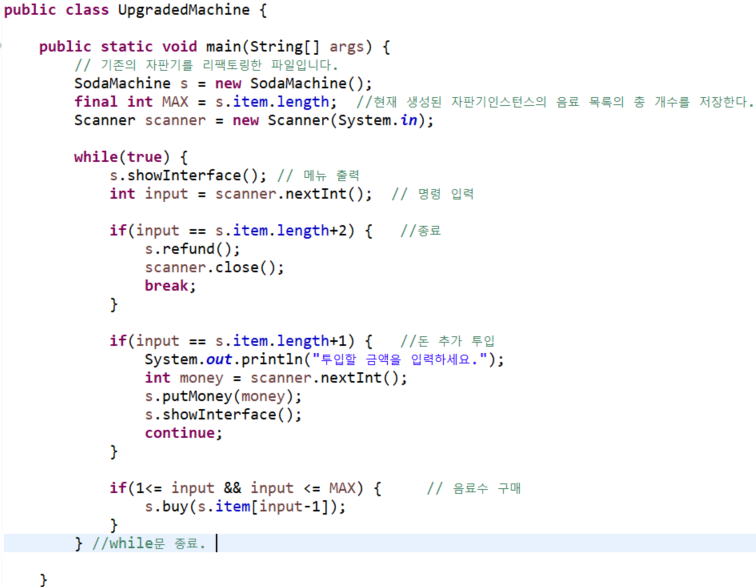
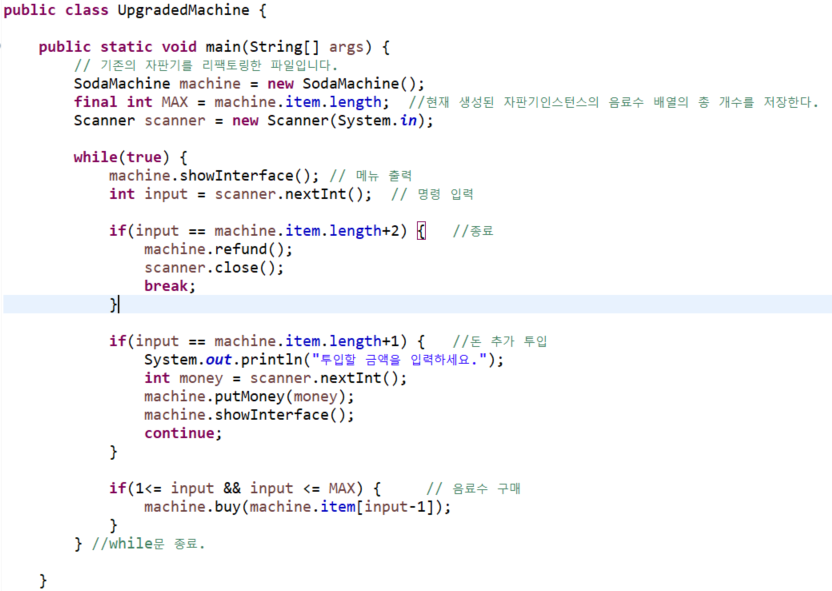
refactoring 2021-10-19

diff --git a/src/VendingMachine/UpgradedMachine.java b/src/VendingMachine/UpgradedMachine.java
@@ -132,30 +132,30 @@ public class UpgradedMachine {
 
 	public static void main(String[] args) {
 		// 기존의 자판기를 리팩토링한 파일입니다.
-		SodaMachine s = new SodaMachine();
-		final int MAX = s.item.length;  //현재 생성된 자판기인스턴스의 음료 목록의 총 개수를 저장한다.
+		SodaMachine machine = new SodaMachine();
+		final int MAX = machine.item.length;  //현재 생성된 자판기인스턴스의 음료수 배열의 총 개수를 저장한다.
 		Scanner scanner = new Scanner(System.in);
 		
 		while(true) {
-			s.showInterface(); // 메뉴 출력
+			machine.showInterface(); // 메뉴 출력
 			int input = scanner.nextInt();  // 명령 입력
 			
-			if(input == s.item.length+2) {   //종료
-				s.refund();
+			if(input == machine.item.length+2) {   //종료
+				machine.refund();
 				scanner.close();
 				break;
 			}
 			
-			if(input == s.item.length+1) {   //돈 추가 투입
+			if(input == machine.item.length+1) {   //돈 추가 투입
 				System.out.println("투입할 금액을 입력하세요.");
 				int money = scanner.nextInt();
-				s.putMoney(money);
-				s.showInterface();
+				machine.putMoney(money);
+				machine.showInterface();
 				continue;
 			}
 		
 			if(1<= input && input <= MAX) {     // 음료수 구매
-				s.buy(s.item[input-1]);
+				machine.buy(machine.item[input-1]);
 			}
 		} //while문 종료. 
 	
